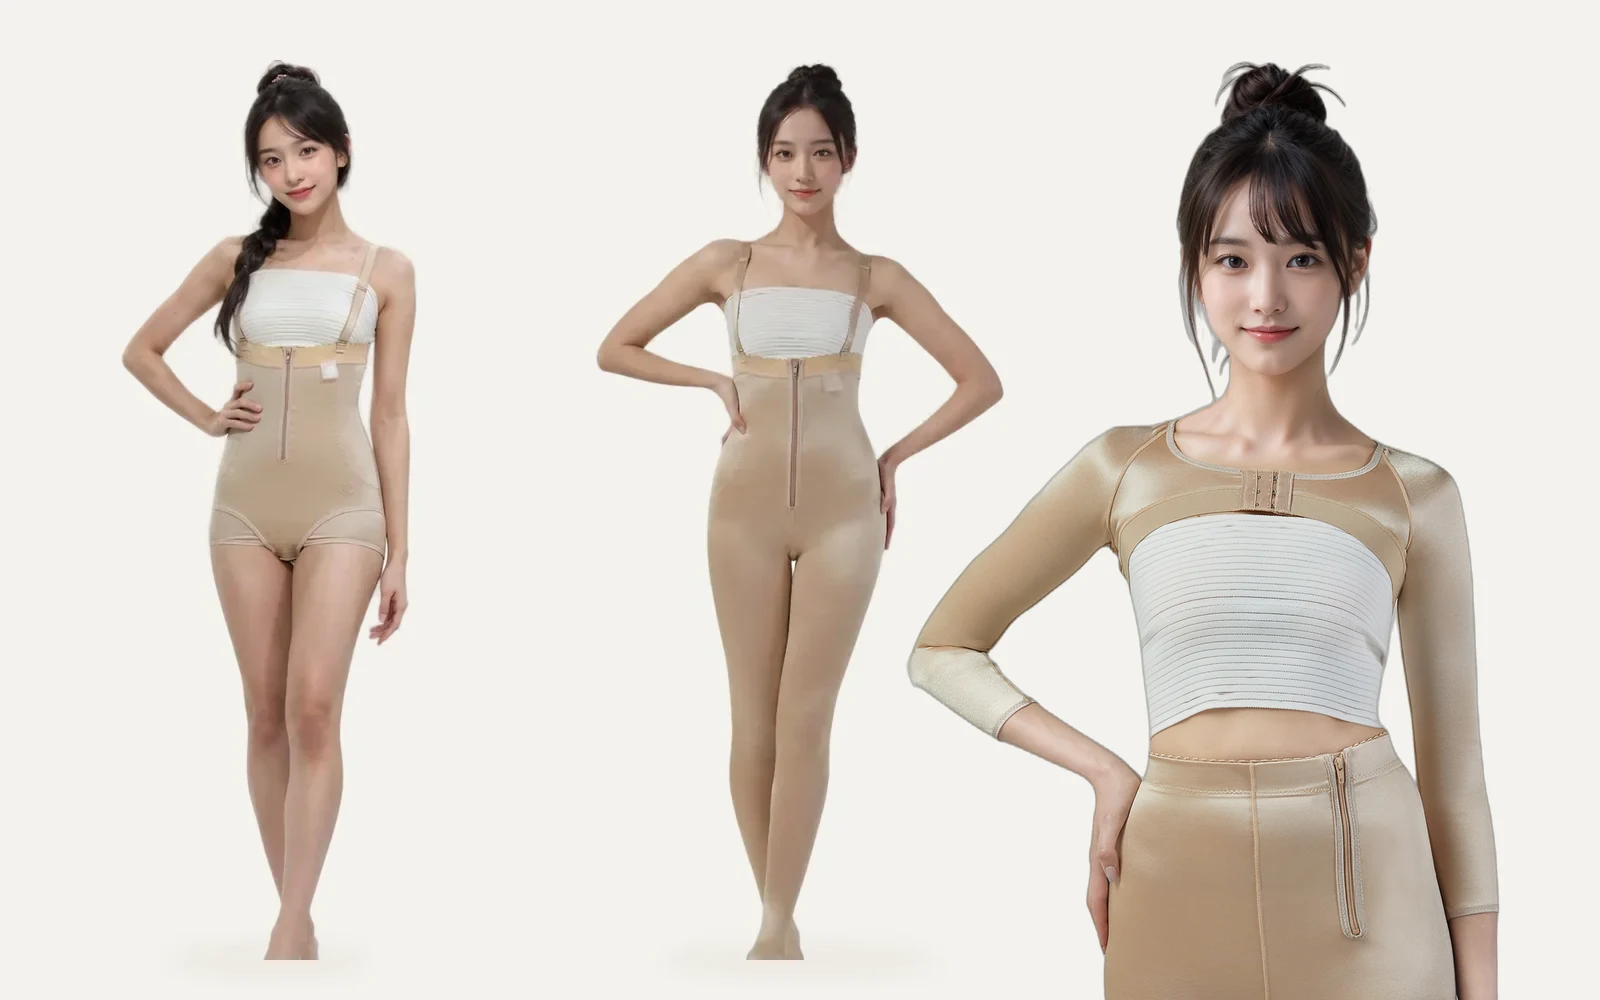
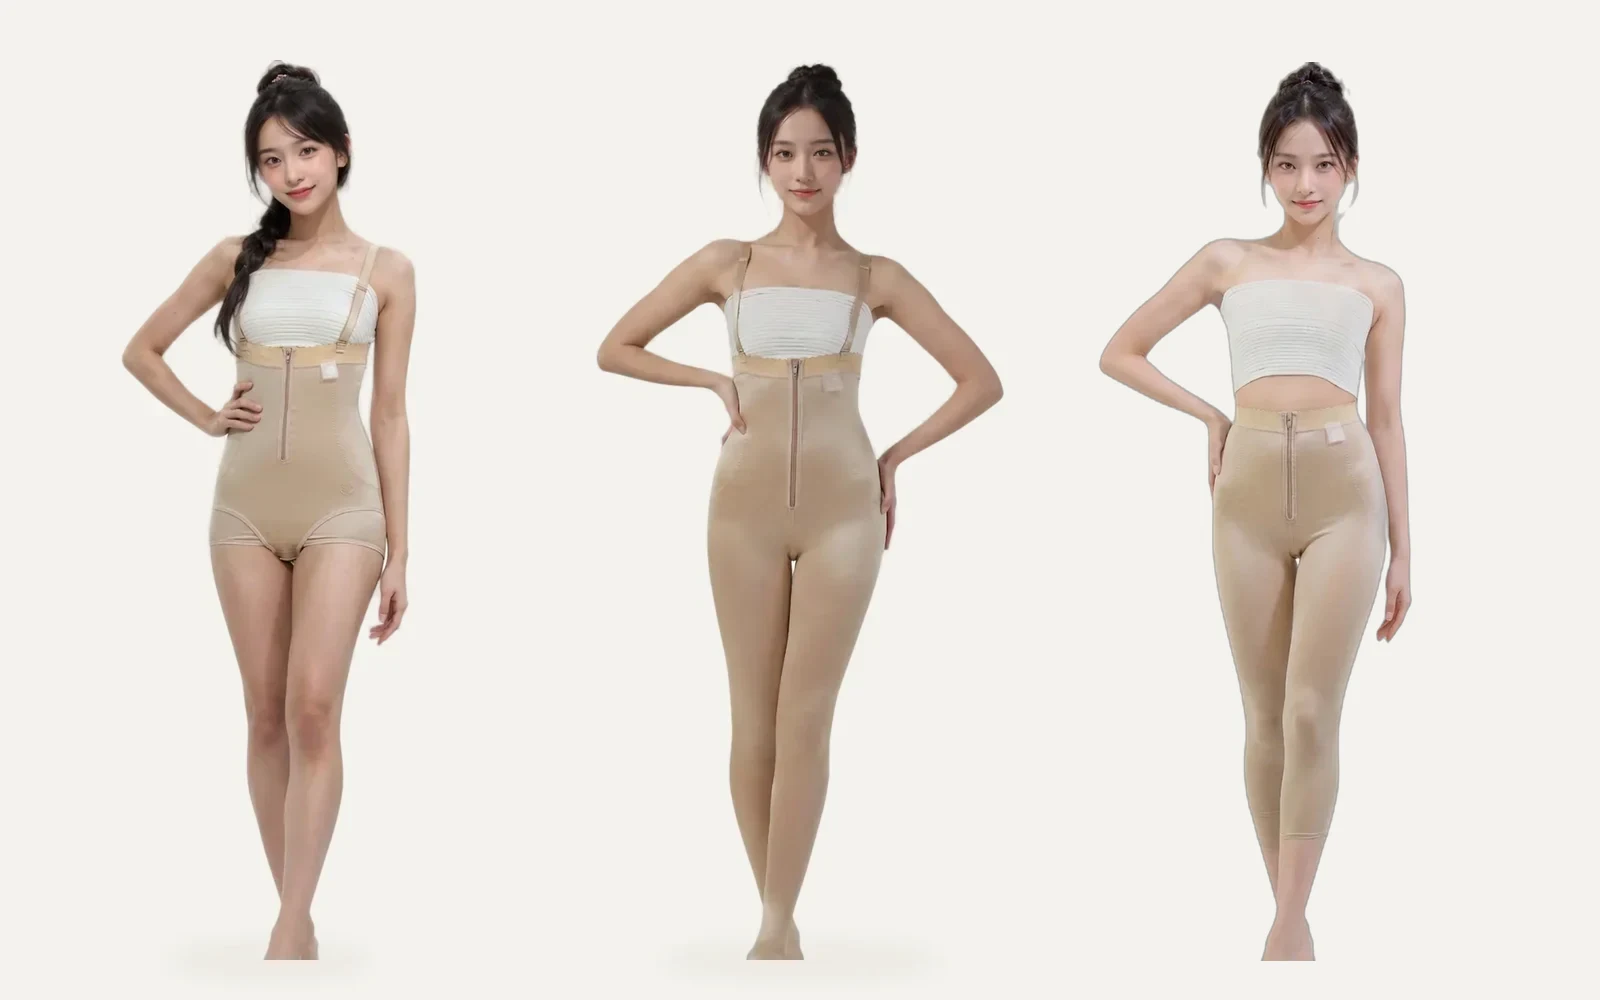
가이드 대표 이미지 세 번째 인물 ST72로 교체(비율 통일)
Claude-Session: https://claude.ai/code/session_01QdshiGuixLabDb3vpZXRXT

Changed region(s): [[0.5625, 0.062, 0.9375, 1.0]]

diff --git a/index.html b/index.html
@@ -249,7 +249,7 @@ var p=location.pathname.replace(/index\.html$/,'');h.querySelectorAll('.nav__lin
 
     <div class="guide__grid">
       <a class="gfeat" href="/guide/liposuction-compression-garment/">
-        <img class="gfeat__img" src="/assets/img/guide-featured.webp" alt="복부·전신·팔 압박복을 착용한 세 모습" width="1600" height="1000" loading="lazy">
+        <img class="gfeat__img" src="/assets/img/guide-featured.webp" alt="복부·전신·허벅지 압박복을 착용한 세 모습" width="1600" height="1000" loading="lazy">
         <div class="gfeat__body">
           <p class="gmeta"><b>대표 가이드</b><span>최신 수정 2026-10-19</span></p>
           <h3 class="gfeat__title">지방흡입 압박복, 언제부터 언제까지 입나요?</h3>
